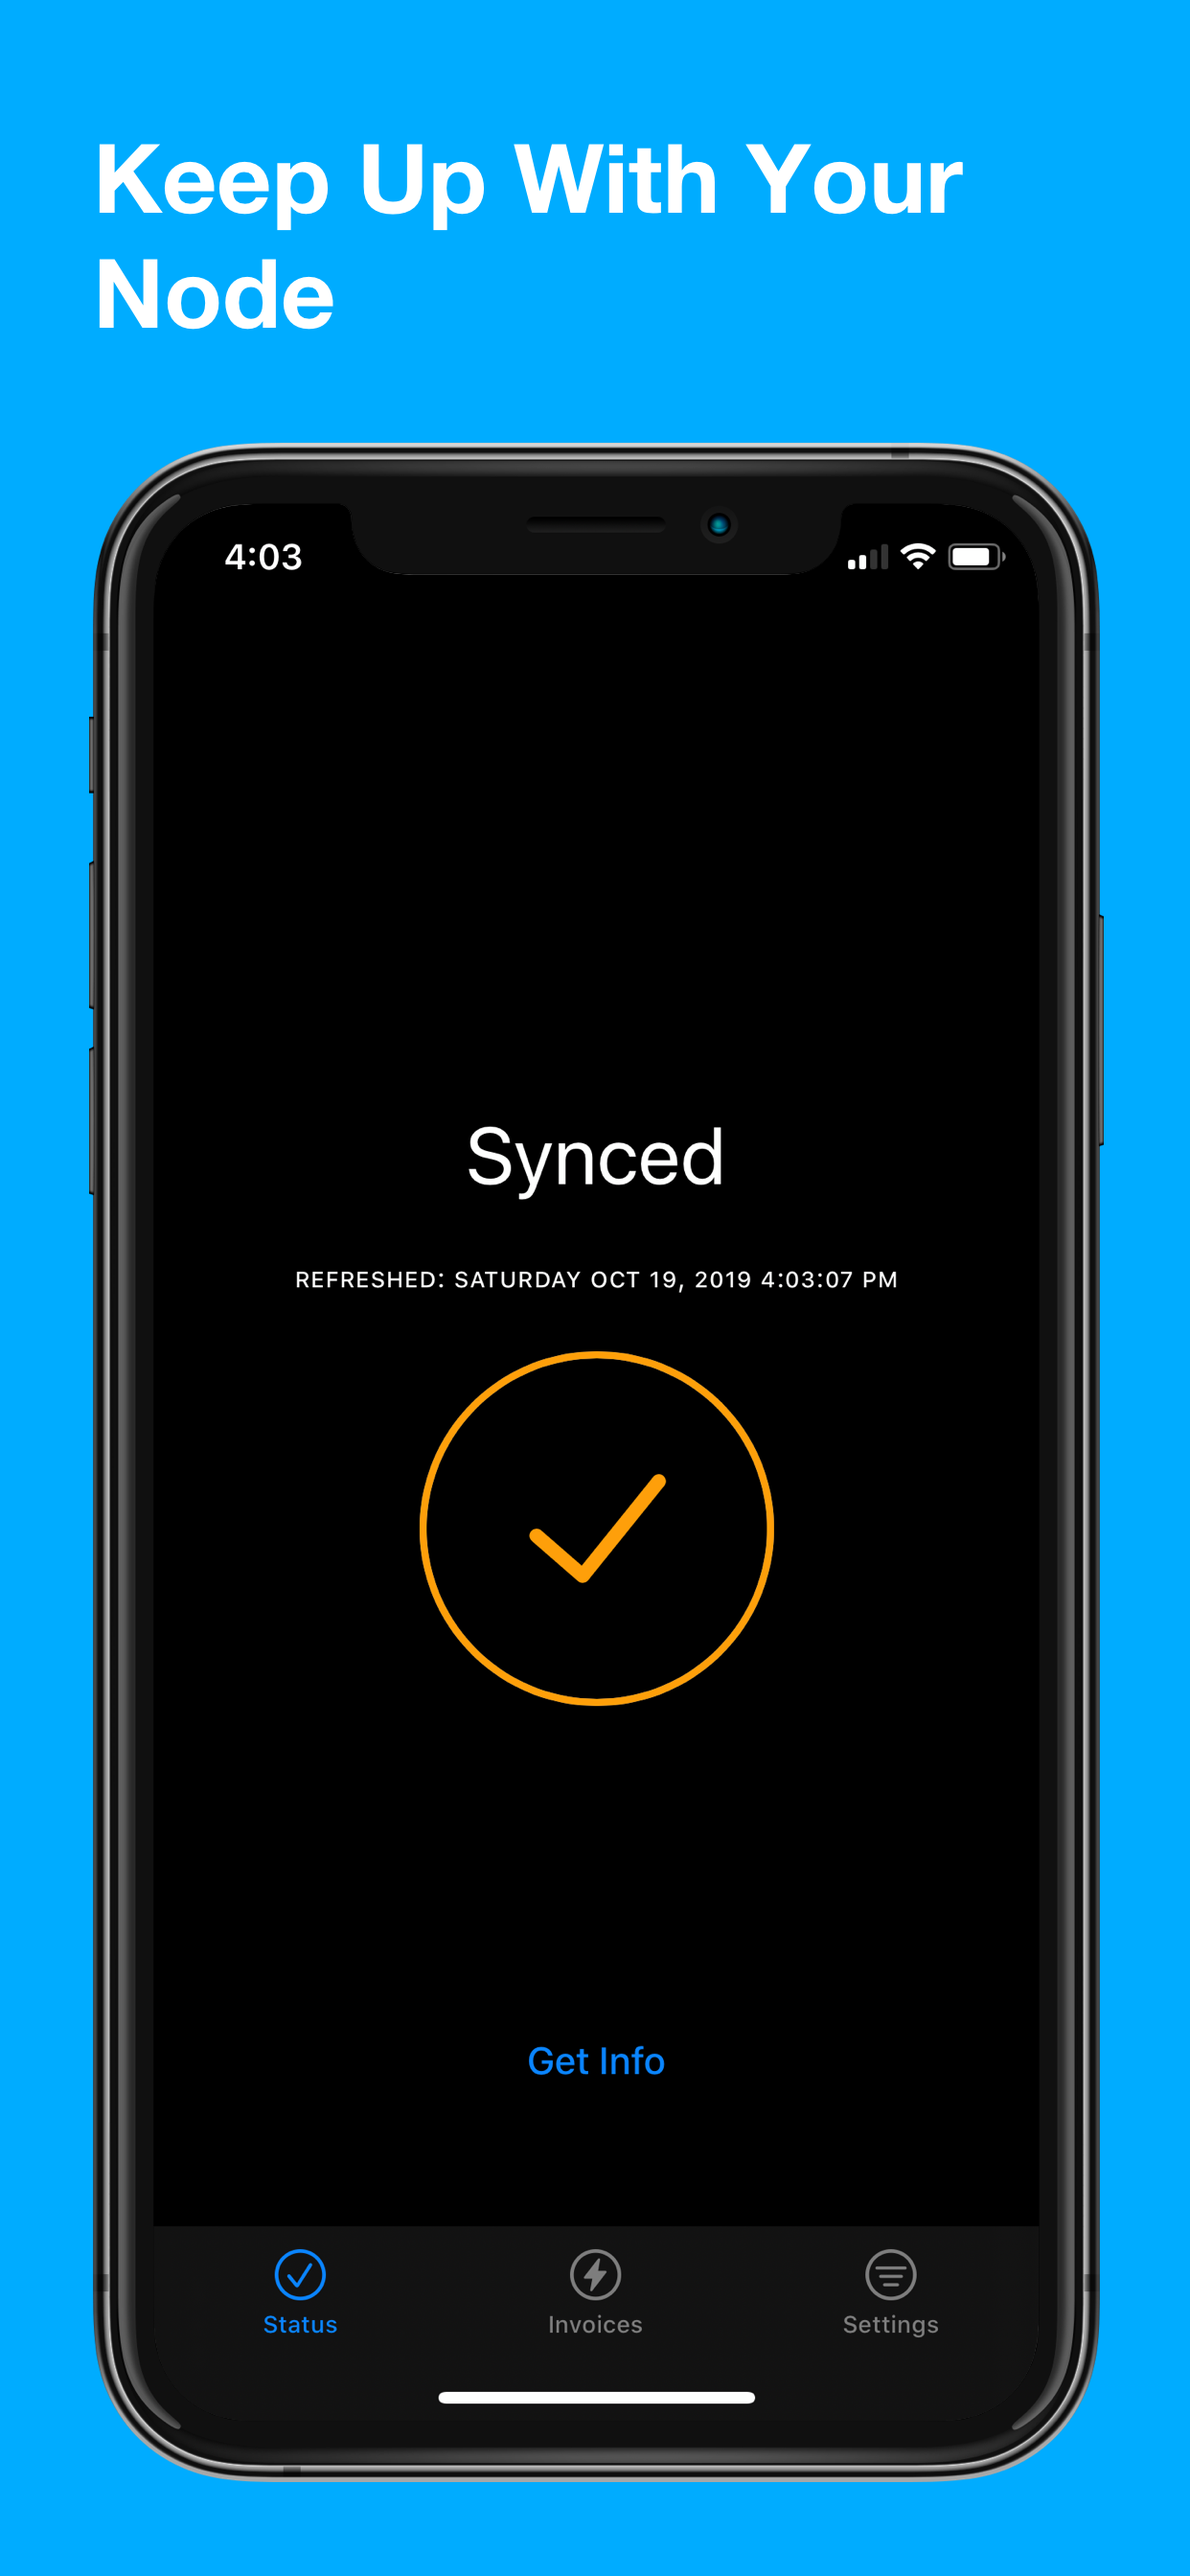
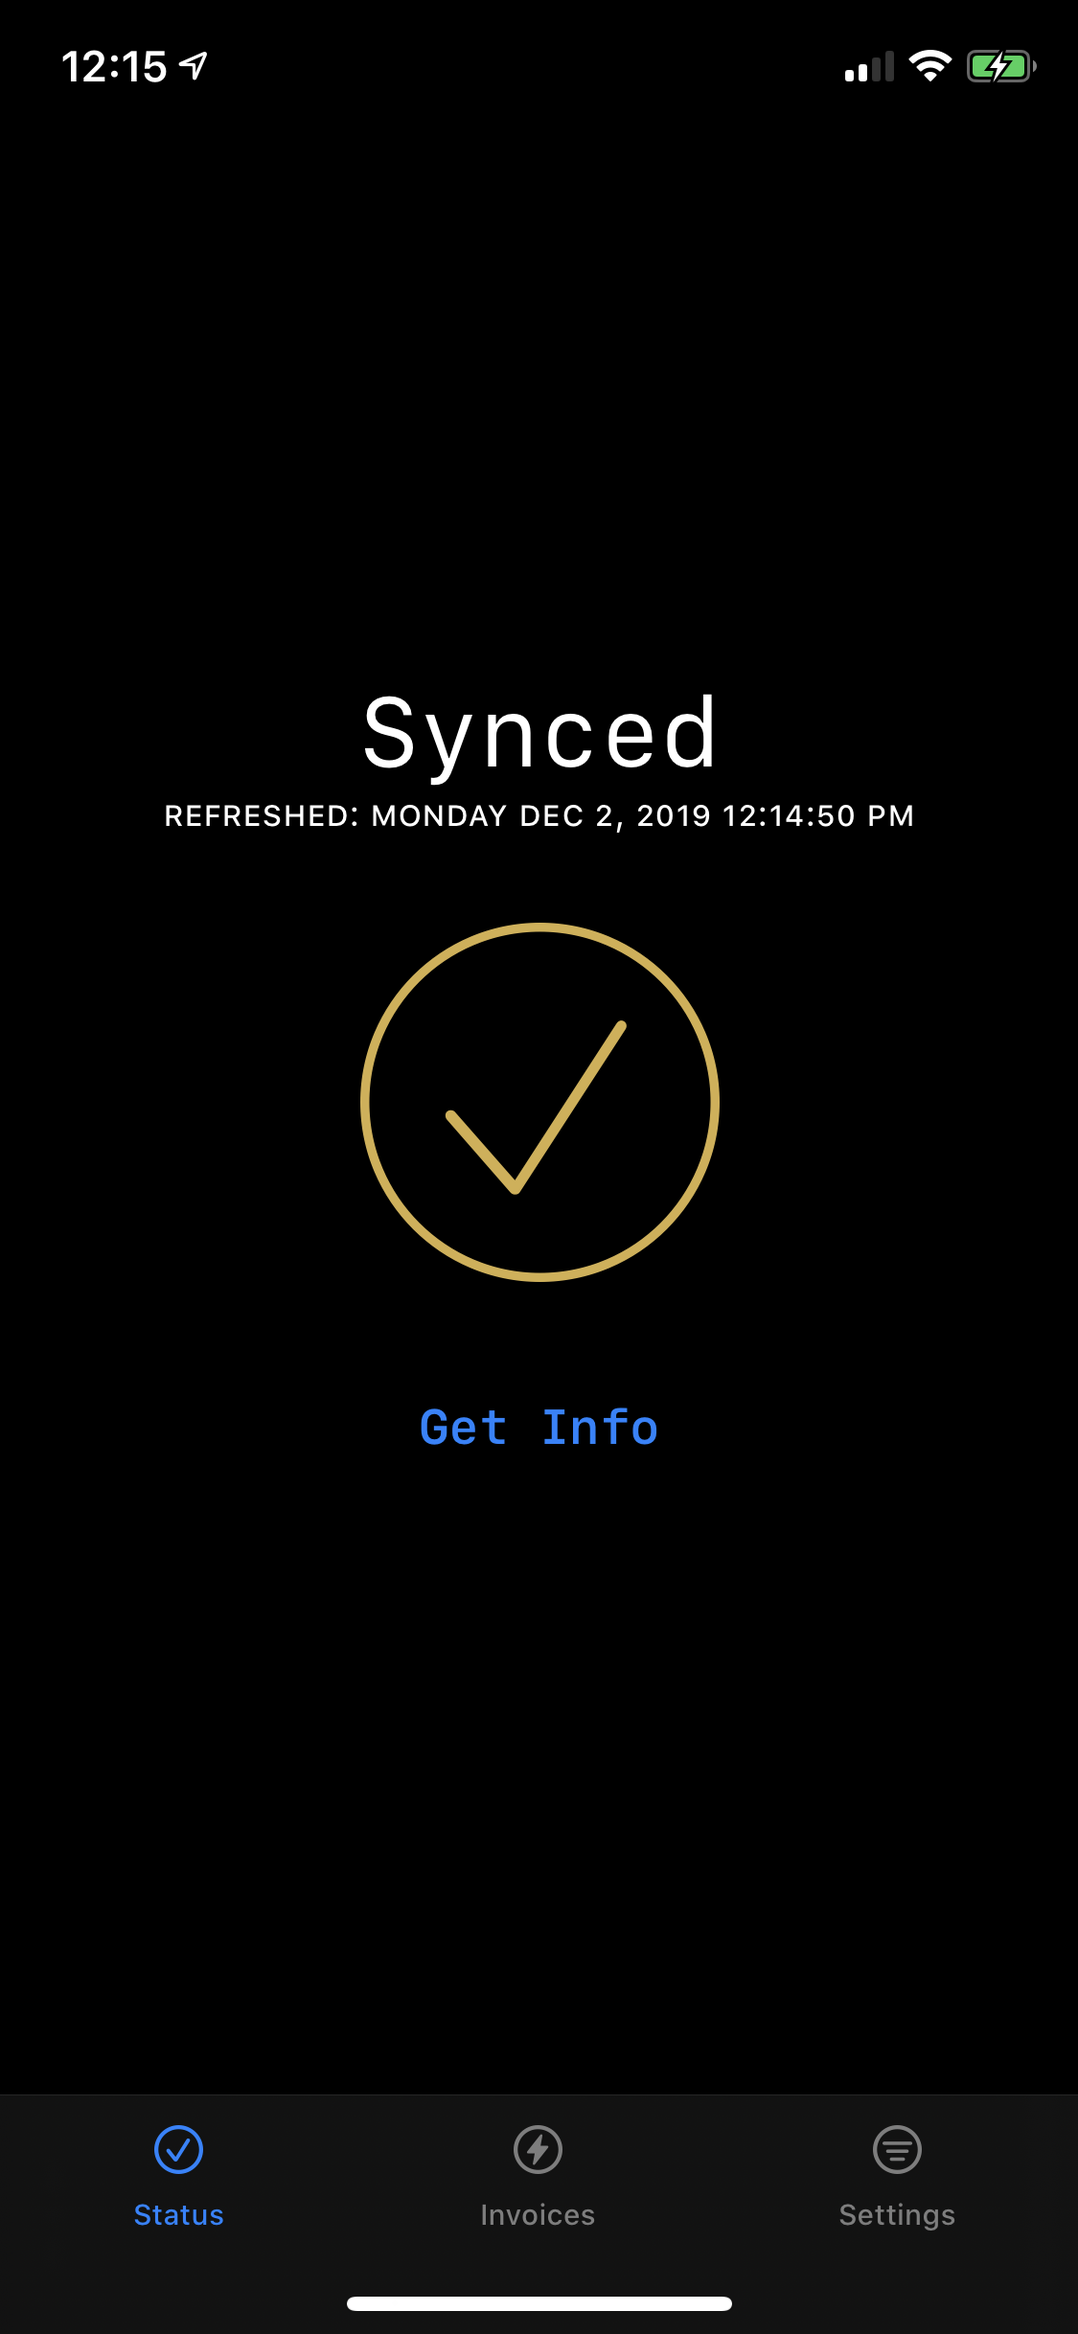
ui: more fonts and new screenshot

diff --git a/LightningNode/SettingsUIView.swift b/LightningNode/SettingsUIView.swift
@@ -28,37 +28,35 @@ struct SettingsUIView: View {
                     
                     Text(Constants.alias.rawValue)
                         .font(.system(.footnote, design: .monospaced))
-//                        .font(.footnote)
                         .foregroundColor(.gray)
                     
                     Text(state.alias)
                         .font(.system(.subheadline, design: .monospaced))
-//                        .font(.subheadline)
+                    
                 }
                 
                 VStack {
                     
                     Text(Constants.pubkey.rawValue)
                         .font(.system(.footnote, design: .monospaced))
-//                        .font(.footnote)
                         .foregroundColor(.gray)
                     
                     Text(state.pubkey)
                         .font(.system(.subheadline, design: .monospaced))
-//                        .font(.subheadline)
                         .multilineTextAlignment(.center)
+                    
                 }
                 
                 VStack {
+                    
                     Text(Constants.tabsVersion.rawValue)
                         .font(.system(.footnote, design: .monospaced))
-//                        .font(.footnote)
                         .foregroundColor(.gray)
-
+                    
                     Text(state.version)
                         .font(.system(.footnote, design: .monospaced))
-//                        .font(.footnote)
-                    .multilineTextAlignment(.center)
+                        .multilineTextAlignment(.center)
+                    
                 }
                 
             }
@@ -80,7 +78,6 @@ struct SettingsUIView: View {
         .onAppear {
             switch Current.keychain.load() {
             case let .success(savedConfig):
-                self.state.alias = "Success"
                 Current.remoteNodeConnectionFormatted = savedConfig
                 Current.lightningAPIRPC.info {  result in
                     try? result.get()

diff --git a/LightningNode/InvoiceCreateUIView.swift b/LightningNode/InvoiceCreateUIView.swift
@@ -21,7 +21,7 @@ struct InvoiceCreateUIView: View {
     @State var showInvoice = false
     @State var showCopy = false
     @State var newInvoice = ""
-
+    
     var body: some View {
         
         VStack {
@@ -31,7 +31,7 @@ struct InvoiceCreateUIView: View {
                 .multilineTextAlignment(.leading)
                 .font(.system(.title, design: .monospaced))
                 .border(Color.blue)
-
+            
             TextField("Value", text: $value)
                 .textFieldStyle(RoundedBorderTextFieldStyle())
                 .multilineTextAlignment(.leading)
@@ -63,22 +63,21 @@ struct InvoiceCreateUIView: View {
             .padding()
             
             Group {
-            Text(verbatim: self.newInvoice)
-                .font(.system(.caption, design: .monospaced))
-//                .font(.caption)
-                .opacity(self.showInvoice ? 1 : 0)
+                Text(verbatim: self.newInvoice)
+                    .font(.system(.caption, design: .monospaced))
+                    .opacity(self.showInvoice ? 1 : 0)
+                    .padding()
+                
+                Button("Copy Invoice") {
+                    UIPasteboard.general.string = self.newInvoice
+                    self.showCopy = false
+                    self.showInvoice = false
+                    self.memo = ""
+                    self.value = ""
+                }
+                .opacity(self.showCopy ? 1 : 0)
+                .font(.system(.headline, design: Font.Design.monospaced))
                 .padding()
-            
-            Button("Copy Invoice") {
-                UIPasteboard.general.string = self.newInvoice
-                self.showCopy = false
-                self.showInvoice = false
-                self.memo = ""
-                self.value = ""
-            }
-            .opacity(self.showCopy ? 1 : 0)
-            .font(.system(.headline, design: Font.Design.monospaced))
-            .padding()
             }
             .animation(.interactiveSpring())
             

diff --git a/LightningNode/AddNodeUIView.swift b/LightningNode/AddNodeUIView.swift
@@ -30,28 +30,38 @@ struct AddNodeUIView: View {
             Button("Scan Node QR Code") { self.showCamera = true }
                 .padding()
                 .foregroundColor(.blue)
+                .font(.system(.headline, design: Font.Design.monospaced))
                 .padding()
                 .sheet(isPresented: $showCamera, onDismiss: { self.showCamera = false }) { QRUIView() }
             
             Text("Or Add Below")
                 .padding()
-                .font(.system(.footnote, design: .monospaced))
-//                .font(.footnote)
+                .font(Font.footnote.smallCaps())
             
             VStack {
+                
                 TextField("Certificate", text: $certificate)
                     .textFieldStyle(RoundedBorderTextFieldStyle())
-                        
+                    .font(.system(.footnote, design: .monospaced))
+                    .border(Color.blue)
+                
                 TextField("Macaroon", text: $macaroon)
                     .textFieldStyle(RoundedBorderTextFieldStyle())
+                    .font(.system(.footnote, design: .monospaced))
+                    .border(Color.blue)
+                
                 
                 TextField("URI", text: $uri)
                     .textFieldStyle(RoundedBorderTextFieldStyle())
+                    .font(.system(.footnote, design: .monospaced))
+                    .border(Color.blue)
+                
             }
             .padding()
             
             NavigationLink(destination: TabUIView()) {
                 Text("Add Node")
+                    .font(.system(.headline, design: Font.Design.monospaced))
             }
             .padding()
             .disabled(self.isButtonDisabled)

diff --git a/LightningNode/InvoiceListUIView.swift b/LightningNode/InvoiceListUIView.swift
@@ -24,7 +24,6 @@ struct InvoiceListUIView: View {
             Text(Constants.listInvoicesBodyText.rawValue)
                 .multilineTextAlignment(.center)
                 .font(Font.largeTitle.smallCaps())
-//                .font(.system(.headline, design: Font.Design.rounded))
                 .padding()
             
             Button(Constants.addInvoiceButton.rawValue) { self.showAlert = true }
@@ -74,25 +73,26 @@ struct InvoiceRow: View {
         ForEach(invoices.reversed()) { invoice in
             
             VStack(alignment: .leading) {
+                
                 Text(self.invoiceToString(invoice))
                     .font(.system(.caption, design: .monospaced))
-//                    .font(.caption)
                     .padding(EdgeInsets(top: 0, leading: 0, bottom: 10, trailing: 0))
                 
                 Text("\(invoice.memo)")
                     .font(.system(.headline, design: .monospaced))
-//                    .font(.headline)
                 
                 HStack {
+                    
                     Image(systemName: Constants.lightningImage.rawValue)
                         .foregroundColor(Color(.mr_gold))
                         .font(Font.subheadline.weight(.ultraLight))
-
+                    
                     Text("\(invoice.value)")
                         .font(.system(.subheadline, design: .monospaced))
-//                        .font(.subheadline)
+                    
                 }
                 .padding(EdgeInsets(top: 0, leading: 0, bottom: 20, trailing: 0))
+                
             }
             
         }

diff --git a/LightningNode/StatusUIView.swift b/LightningNode/StatusUIView.swift
@@ -24,12 +24,13 @@ struct StatusUIView: View {
         VStack {
             
             VStack {
+                
                 Text(self.state.syncedLabel)
-                .font(.system(.largeTitle, design: .monospaced))
-//                    .font(.largeTitle)
+                    .font(.system(.largeTitle, design: .monospaced))
+                
                 Text(self.state.refreshedLabel)
                     .font(Font.footnote.smallCaps())
-//                    .font(.footnote)
+                
             }
             .padding(EdgeInsets(top: 0, leading: 0, bottom: 20, trailing: 0))
             
@@ -59,7 +60,7 @@ extension StatusUIView {
     func loadStatus() {
         switch Current.keychain.load() {
         case let .success(savedConfig):
-                        
+            
             Current.remoteNodeConnectionFormatted = savedConfig
             Current.lightningAPIRPC.info {  result in
                 try? result.get()
@@ -80,6 +81,7 @@ extension StatusUIView {
                         $0.syncedToChain ?
                             (self.state.syncedLabel = Constants.synced.rawValue) :
                             (self.state.syncedLabel = Constants.notSynced.rawValue)
+                  
                 }
             }
         case .failure(_):

diff --git a/LightningNode/StatusDetailUIView.swift b/LightningNode/StatusDetailUIView.swift
@@ -25,6 +25,7 @@ struct StatusDetailUIView: View {
     var body: some View {
         
         VStack(alignment: .leading,spacing: 15.0) {
+            
             Text("alias: ")
                 + Text(self.appState.alias)
                     .bold()
@@ -55,7 +56,6 @@ struct StatusDetailUIView: View {
             
         }
         .font(.system(.callout, design: .monospaced))
-//        .font(.callout)
         .onAppear { self.loadStatusDetail() }
         
     }
@@ -66,7 +66,7 @@ extension StatusDetailUIView {
     func loadStatusDetail() {
         switch Current.keychain.load() {
         case let .success(savedConfig):
-                        
+            
             Current.remoteNodeConnectionFormatted = savedConfig
             Current.lightningAPIRPC.info { result in
                 try? result.get()
